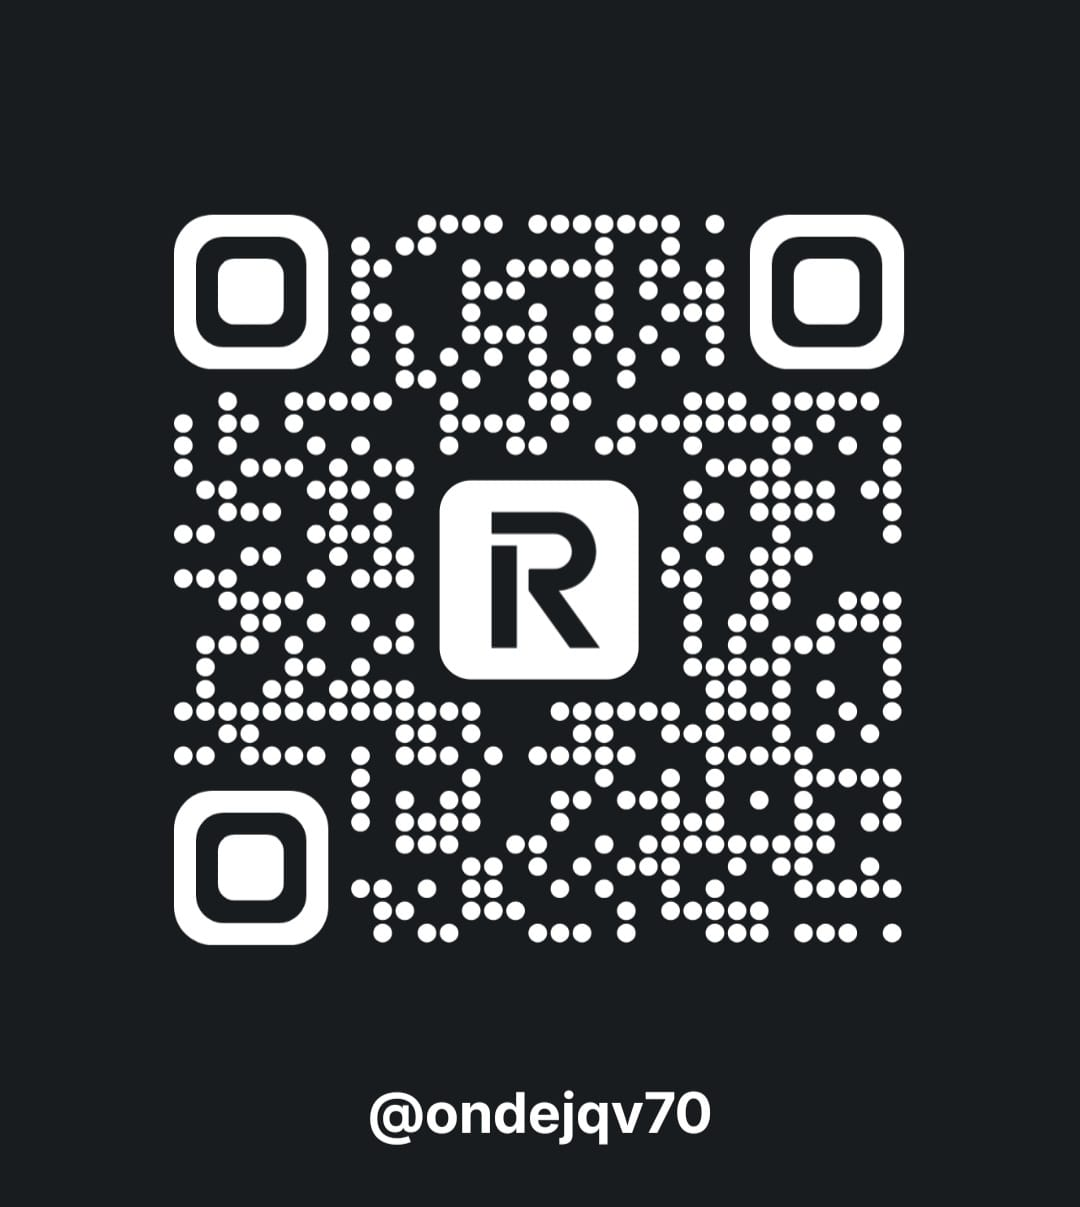
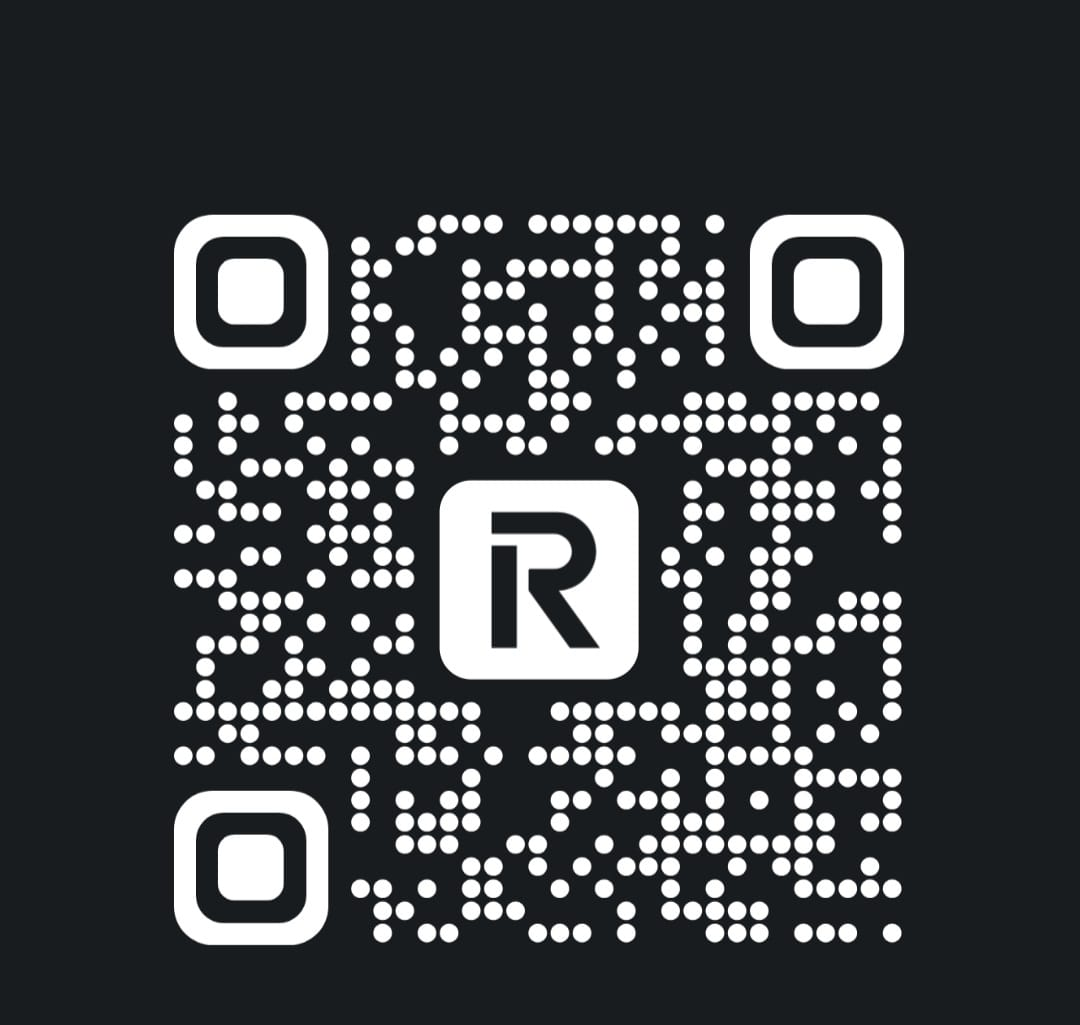
UX improvements: two-tap events, spoiler quests, stats bar, QR cleanup
1. Events: two-tap to remove (first tap highlights red, second removes)
2. Spoiler-safe quests: hide "Neodkryté questy" and checkpoint expressions
3. Export/import: backward compat for personalQuests field
4. Stats bar on flowchart: completed, available, characters, prosperity, rep
5. QR code: cropped @ondejqv70 text from bottom
6. Backend sync: updated local api/main.py (rate limit 30)

Changed region(s): [[0.1528, 0.1561, 0.8556, 0.9678]]

diff --git a/src/pages/PartyPage.vue b/src/pages/PartyPage.vue
@@ -18,6 +18,18 @@ const newCityEvent = ref('')
 const newRoadEvent = ref('')
 const showCityRemoved = ref(false)
 const showRoadRemoved = ref(false)
+const pendingRemove = ref<{ type: 'city' | 'road'; id: number } | null>(null)
+
+function confirmRemoveEvent(type: 'city' | 'road', id: number) {
+  if (pendingRemove.value?.type === type && pendingRemove.value?.id === id) {
+    // Second tap — confirm removal
+    partyStore.removeEvent(type, id)
+    pendingRemove.value = null
+  } else {
+    // First tap — mark as pending
+    pendingRemove.value = { type, id }
+  }
+}
 
 function inputValue(e: Event): string {
   return (e.target as HTMLInputElement).value
@@ -378,15 +390,20 @@ function getClassName(classId: string): string {
         </div>
 
         <!-- Tap hint -->
-        <p class="text-[10px] text-gray-600 mb-2">Klikni na cislo = odebrat z balicku</p>
+        <p class="text-[10px] text-gray-600 mb-2">Klikni 2x na cislo = odebrat z balicku</p>
 
-        <!-- Available events (tappable) -->
+        <!-- Available events (two-tap to remove) -->
         <div class="flex flex-wrap gap-1.5 mb-3">
           <button
             v-for="id in partyStore.cityEventsAvailable"
             :key="id"
-            class="w-8 h-8 rounded-lg bg-blue-900/20 text-blue-400/80 text-xs font-bold flex items-center justify-center border border-blue-800/20 hover:bg-red-900/30 hover:text-red-400 hover:border-red-800/30 active:scale-90 transition-all cursor-pointer"
-            @click="partyStore.removeEvent('city', id)"
+            :class="[
+              'w-8 h-8 rounded-lg text-xs font-bold flex items-center justify-center border active:scale-90 transition-all cursor-pointer',
+              pendingRemove?.type === 'city' && pendingRemove?.id === id
+                ? 'bg-red-900/40 text-red-400 border-red-700/50 animate-pulse'
+                : 'bg-blue-900/20 text-blue-400/80 border-blue-800/20 hover:bg-blue-900/30'
+            ]"
+            @click="confirmRemoveEvent('city', id)"
           >
             {{ id }}
           </button>
@@ -453,15 +470,20 @@ function getClassName(classId: string): string {
         </div>
 
         <!-- Tap hint -->
-        <p class="text-[10px] text-gray-600 mb-2">Klikni na cislo = odebrat z balicku</p>
+        <p class="text-[10px] text-gray-600 mb-2">Klikni 2x na cislo = odebrat z balicku</p>
 
-        <!-- Available events (tappable) -->
+        <!-- Available events (two-tap to remove) -->
         <div class="flex flex-wrap gap-1.5 mb-3">
           <button
             v-for="id in partyStore.roadEventsAvailable"
             :key="id"
-            class="w-8 h-8 rounded-lg bg-amber-900/20 text-amber-500/80 text-xs font-bold flex items-center justify-center border border-amber-800/20 hover:bg-red-900/30 hover:text-red-400 hover:border-red-800/30 active:scale-90 transition-all cursor-pointer"
-            @click="partyStore.removeEvent('road', id)"
+            :class="[
+              'w-8 h-8 rounded-lg text-xs font-bold flex items-center justify-center border active:scale-90 transition-all cursor-pointer',
+              pendingRemove?.type === 'road' && pendingRemove?.id === id
+                ? 'bg-red-900/40 text-red-400 border-red-700/50 animate-pulse'
+                : 'bg-amber-900/20 text-amber-500/80 border-amber-800/20 hover:bg-amber-900/30'
+            ]"
+            @click="confirmRemoveEvent('road', id)"
           >
             {{ id }}
           </button>

diff --git a/src/pages/FlowchartPage.vue b/src/pages/FlowchartPage.vue
@@ -8,11 +8,15 @@ import ScenarioDetail from '@/components/scenarios/ScenarioDetail.vue'
 import { useScenarioStore } from '@/stores/scenarioStore'
 import { useFlowchartStore } from '@/stores/flowchartStore'
 import { useCampaignStore } from '@/stores/campaignStore'
+import { useCharacterStore } from '@/stores/characterStore'
+import { usePartyStore } from '@/stores/partyStore'
 
 const router = useRouter()
 const scenarioStore = useScenarioStore()
 const flowchartStore = useFlowchartStore()
 const campaignStore = useCampaignStore()
+const characterStore = useCharacterStore()
+const partyStore = usePartyStore()
 
 const flowchartRef = ref<InstanceType<typeof StorylineSvg> | null>(null)
 
@@ -37,6 +41,30 @@ function handleFitView() {
 
 <template>
   <div v-if="campaignStore.hasCampaign" class="fixed inset-0 top-16 z-40 flex flex-col bg-gh-dark">
+    <!-- Stats bar -->
+    <div class="flex items-center justify-center gap-4 sm:gap-6 px-3 py-1 border-b border-gh-border/50 bg-white/[0.02] text-[10px] sm:text-xs text-gray-500 shrink-0">
+      <span>
+        <span class="text-green-400 font-bold">{{ scenarioStore.completedScenarios.length }}</span>
+        <span class="hidden sm:inline"> dokončeno</span><span class="sm:hidden">/{{ scenarioStore.allScenarios.length }}</span>
+      </span>
+      <span>
+        <span class="text-blue-400 font-bold">{{ scenarioStore.availableScenarios.length }}</span>
+        <span class="hidden sm:inline"> dostupných</span>
+      </span>
+      <span v-if="characterStore.activeCharacters.length">
+        <span class="text-gray-300 font-bold">{{ characterStore.activeCharacters.length }}</span>
+        <span class="hidden sm:inline"> postav</span>
+      </span>
+      <span>
+        <span class="text-gh-primary font-bold">{{ partyStore.prosperityLevel }}</span>
+        <span class="hidden sm:inline"> prosperita</span>
+      </span>
+      <span :class="partyStore.reputation >= 0 ? 'text-green-400' : 'text-red-400'">
+        {{ partyStore.reputation > 0 ? '+' : '' }}{{ partyStore.reputation }}
+        <span class="hidden sm:inline"> rep.</span>
+      </span>
+    </div>
+
     <!-- Toolbar -->
     <div class="px-2 py-1.5 border-b border-gh-border bg-gh-dark shrink-0">
       <!-- Desktop: controls + legend side by side -->

diff --git a/src/pages/StoryPage.vue b/src/pages/StoryPage.vue
@@ -216,7 +216,7 @@ const statusColors: Record<string, string> = {
                   </svg>
                   <div v-else class="w-4 h-4 rounded border border-gray-600 shrink-0" />
                   <span :class="check.completed ? 'text-gray-400' : 'text-gray-600'">
-                    {{ check.expression }}
+                    {{ campaignStore.hideSpoilers ? (check.completed ? 'Splněno' : 'Nesplněno') : check.expression }}
                   </span>
                 </div>
               </div>
@@ -257,8 +257,8 @@ const statusColors: Record<string, string> = {
         </div>
       </div>
 
-      <!-- Not Started -->
-      <div v-if="questStore.notStartedQuests.length">
+      <!-- Not Started (hidden in spoiler mode) -->
+      <div v-if="questStore.notStartedQuests.length && !campaignStore.hideSpoilers">
         <h2 class="font-display text-sm font-semibold text-gray-400 uppercase tracking-wider mb-3">
           Neodkryté questy
         </h2>

diff --git a/src/stores/campaignStore.ts b/src/stores/campaignStore.ts
@@ -67,6 +67,8 @@ export const useCampaignStore = defineStore('campaign', () => {
     try {
       const campaign = await useStorage().loadCampaign(id)
       if (campaign) {
+        // Ensure newer fields exist (backward compat)
+        if (!campaign.personalQuests) campaign.personalQuests = {}
         currentCampaign.value = campaign
       }
     } finally {
@@ -100,6 +102,8 @@ export const useCampaignStore = defineStore('campaign', () => {
 
   async function importCampaign(json: string) {
     const campaign = await useStorage().importCampaign(json)
+    // Ensure newer fields exist (backward compat with older exports)
+    if (!campaign.personalQuests) campaign.personalQuests = {}
     currentCampaign.value = campaign
     await loadCampaignList()
   }

diff --git a/api/main.py b/api/main.py
@@ -524,7 +524,7 @@ async def login(form_data: OAuth2PasswordRequestForm = Depends(), request: Reque
     # Rate limit: 10 per hour per IP
     if request:
         ip = get_client_ip(request)
-        if not rate_limiter.check(f"login:{ip}", 10, 3600):
+        if not rate_limiter.check(f"login:{ip}", 30, 3600):
             raise HTTPException(status_code=429, detail="Příliš mnoho pokusů o přihlášení. Zkus to za hodinu.")
 
     query = users.select().where(users.c.email == form_data.username)
